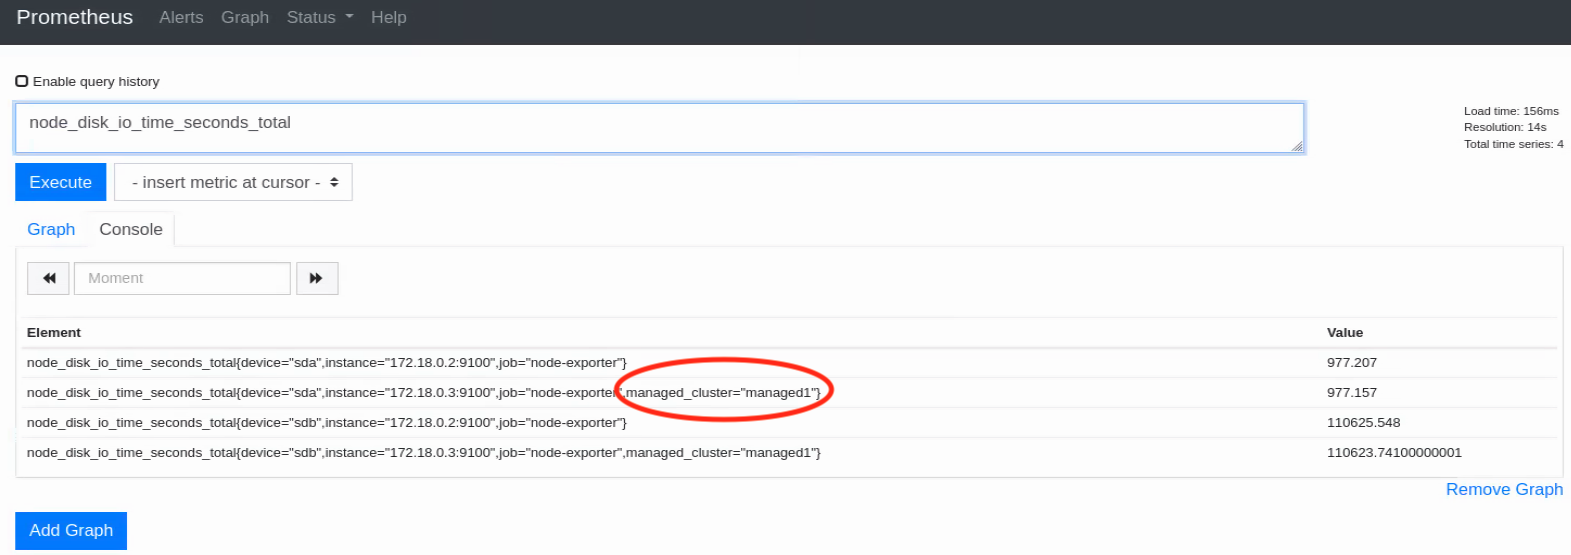
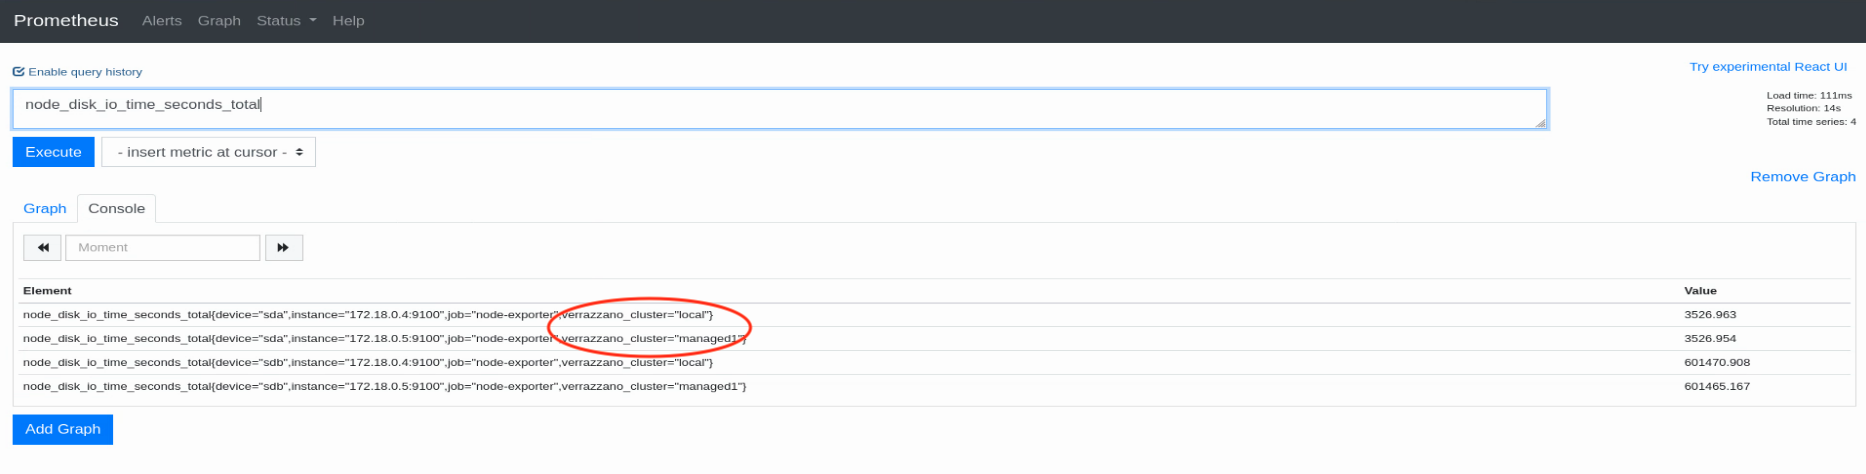
Change Prometheus cluster name metrics label to verrazzano_cluster, for v1.1

diff --git a/content/en/docs/setup/install/multicluster.md b/content/en/docs/setup/install/multicluster.md
@@ -285,7 +285,8 @@ You can perform all the verification steps on the admin cluster.
 ### Verify that managed cluster metrics are being collected
 
 Verify that the admin cluster is collecting metrics from the managed cluster.  The Prometheus output will include 
-records that contain the name of the managed cluster (labeled as `managed_cluster`).
+records that contain the name of the managed cluster, labeled as `verrazzano_cluster`, in addition to admin cluster
+records which are labeled as `local`
 
 You can find the Prometheus UI URL for your cluster by following the instructions for [Accessing Verrazzano]({{< relref "/docs/operations/_index.md" >}}).
 Execute a query for a metric (for example, `node_disk_io_time_seconds_total`).
@@ -294,7 +295,7 @@ Execute a query for a metric (for example, `node_disk_io_time_seconds_total`).
 
 ![Prometheus](/docs/images/multicluster/prometheus-multicluster.png)
 
-An alternative approach to using the Prometheus UI is to query metrics from the command line. Here is an example of how to obtain Prometheus metrics from the command line. Search the output of the query for responses that have the `managaged_cluster` field set to the name of the managed cluster.
+An alternative approach to using the Prometheus UI is to query metrics from the command line. Here is an example of how to obtain Prometheus metrics from the command line. Search the output of the query for responses that have the `verrazzano_cluster` field set to the name of the managed cluster.
    ```shell
    # On the admin cluster
    $ prometheusUrl=$(kubectl --kubeconfig $KUBECONFIG_ADMIN --context $KUBECONTEXT_ADMIN \
